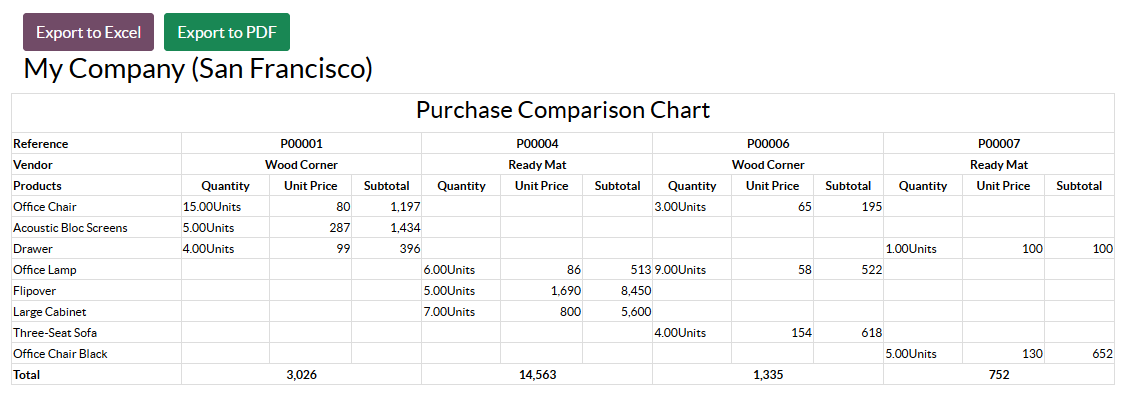
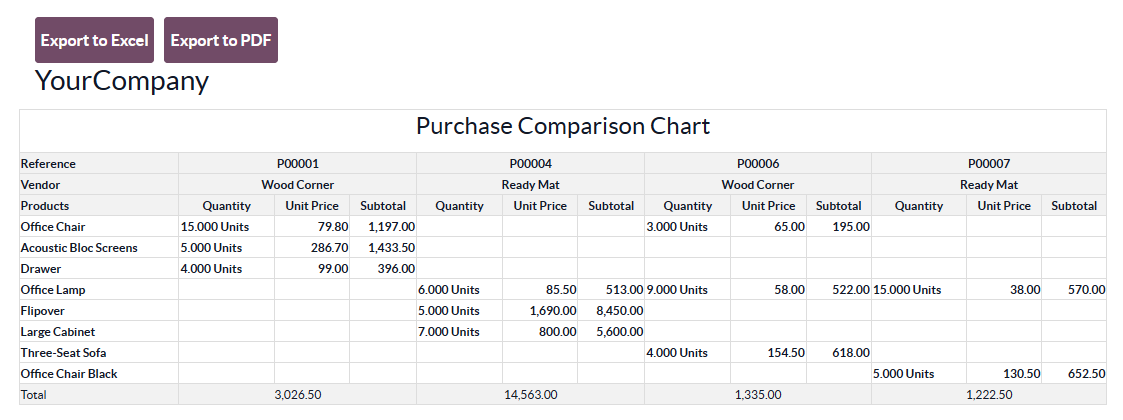
Add module to 18.0 branch

diff --git a/sb_rfq_comparison/static/description/index.html b/sb_rfq_comparison/static/description/index.html
@@ -1,34 +1,32 @@
 <section class="oe_container">
     <div class="oe_row oe_spaced">
         <h2 class="oe_slogan" style="color:#875A7B;">RFQ Comparison</h2>
-        <h3 class="oe_slogan">Purchase Comparison Chart of selected records.<br> Reference and Vendor against products</h3>
+        <h3 class="oe_slogan">Purchase Comparison Chart of selected records. Reference and Vendor against products</h3>
         <div class="oe_demo oe_picture oe_screenshot">
             <br>
-            <h5 style="text-align: center">Purchase Comparison Chart</h5>
-            <h6 style="text-align: center">Goto Request for Quotation menu in Purchase module.
+            <h3 style="text-align: center">Purchase Comparison Chart</h3>
+            <h5 style="text-align: center">Goto Request for Quotation menu in Purchase module.
                 Select records as required for comparison then in Action menu select RFQ Comparison.
-            </h6>
+            </h5>
             <img src="menu.png">
         </div>
-        <br><br><br>
         <div class="oe_demo oe_picture oe_screenshot">
             <br>
-            <h5 style="text-align: center">HTML view of Purchase Comparison Chart</h5>
-            <h6 style="text-align: center">A HTML view of Purchase Comparison Chart will open in new tab.</h6>
+            <h3 style="text-align: center">HTML view of Purchase Comparison Chart</h3>
+            <h5 style="text-align: center">A HTML view of Purchase Comparison Chart will open in new tab.</h5>
             <img src="report_html.png">
         </div>
         <br>
         <div class="oe_demo oe_picture oe_screenshot">
             <br>
-            <h5 style="text-align: center">PDF view of Purchase Comparison Chart</h5>
-            <h6 style="text-align: center">A PDF view of Purchase Comparison Chart will open on click Export to PDF button.</h6>
+            <h3 style="text-align: center">PDF view of Purchase Comparison Chart</h3>
+            <h5 style="text-align: center">A PDF view of Purchase Comparison Chart will open on click Export to PDF button.</h5>
             <img src="report_pdf.png">
         </div>
-        <br>
         <div class="oe_demo oe_picture oe_screenshot">
             <br>
-            <h5 style="text-align: center">Excel view of Purchase Comparison Chart</h5>
-            <h6 style="text-align: center">An excel view of Purchase Comparison Chart will open on click Export to Excel button.</h6>
+            <h3 style="text-align: center">Excel view of Purchase Comparison Chart</h3>
+            <h5 style="text-align: center">An excel view of Purchase Comparison Chart will open on click Export to Excel button.</h5>
             <img src="report_xlsx.png">
         </div>
     </div>

diff --git a/sb_rfq_comparison/controllers/rfq_comparison_controller.py b/sb_rfq_comparison/controllers/rfq_comparison_controller.py
@@ -18,7 +18,7 @@ class PurchaseComparison(http.Controller):
             rfq_ids.append(record.id)
 
             # Append FRQ
-            rfq_info.append({'rfq_name': record.name, 'amount': '{:,.0f}'.format(record.amount_untaxed)})
+            rfq_info.append({'rfq_name': record.name, 'amount': '{:,.2f}'.format(record.amount_untaxed)})
 
             # Append supplier
             supplier_ids.append({'sname': record.partner_id.name})
@@ -27,10 +27,10 @@ class PurchaseComparison(http.Controller):
             for line in record.order_line:
                 if line.product_id.id not in product:
                     product[line.product_id.id] = {'product_name': line.product_id.name,
-                                                    'records': {record.id: {'price': '{:,.0f}'.format(line.price_unit), 'uom': line.product_uom.name,'qty': '{:,.2f}'.format(line.product_qty), 'subtotal': '{:,.0f}'.format(line.product_qty*line.price_unit)}}}
+                                                    'records': {record.id: {'price': '{:,.2f}'.format(line.price_unit), 'uom': line.product_uom.name,'qty': '{:,.3f}'.format(line.product_qty), 'subtotal': '{:,.2f}'.format(line.product_qty*line.price_unit)}}}
                 else:
-                    product[line.product_id.id]['records'][record.id] = {'price': '{:,.0f}'.format(line.price_unit), 'uom': line.product_uom.name,
-                                                   'qty': '{:,.2f}'.format(line.product_qty), 'subtotal': '{:,.0f}'.format(line.product_qty*line.price_unit)}
+                    product[line.product_id.id]['records'][record.id] = {'price': '{:,.2f}'.format(line.price_unit), 'uom': line.product_uom.name,
+                                                   'qty': '{:,.3f}'.format(line.product_qty), 'subtotal': '{:,.2f}'.format(line.product_qty*line.price_unit)}
         for rec in product:
             product_data = product[rec]
             product_data['record'] = []
@@ -69,9 +69,11 @@ class PurchaseComparison(http.Controller):
             cell_align1 = workbook.add_format({'align': 'center', 'bold': True, 'font_size': '12', 'border': 1})
             cell_align2 = workbook.add_format({'bg_color': '#CCCCCC', 'align': 'center', 'bold': True, 'font_size': '12', 'border': 1})
             format_qty1 = workbook.add_format({'text_wrap': True, 'align': 'right', 'font_size': '10', 'border': 1, 'num_format': '#,##0.00'})
-            format_qty2 = workbook.add_format({'bg_color': '#CCCCCC', 'text_wrap': True, 'align': 'right', 'font_size': '10', 'border': 1, 'num_format': '#,##0.00'})
+            format_qty2 = workbook.add_format({'bg_color': '#CCCCCC', 'text_wrap': True, 'align': 'right',
+                                               'font_size': '10', 'border': 1, 'num_format': '#,##0.00'})
             format_amount1 = workbook.add_format({'align': 'center', 'bold': True, 'border': 1, 'num_format': '#,##0'})
-            format_amount2 = workbook.add_format({'bg_color': '#CCCCCC','align': 'center', 'bold': True, 'border': 1, 'num_format': '#,##0'})
+            format_amount2 = workbook.add_format({'bg_color': '#CCCCCC', 'align': 'center', 'bold': True, 'border': 1,
+                                                  'num_format': '#,##0.00;(#,##0.00)'})
 
             c = 1
             sheet.set_column(c, c, 35)
@@ -98,10 +100,10 @@ class PurchaseComparison(http.Controller):
 
             r += 1
             c = 1
-            sheet.write(r, c, 'Vendor', cell_format1)
+            sheet.write(r, c, 'Vendor', cell_format2)
             c += 1
             for sname in supplier_ids:
-                sheet.merge_range(r, c, r, c+2, sname['sname'], cell_align1)
+                sheet.merge_range(r, c, r, c+2, sname['sname'], cell_align2)
                 c += 3
 
             r += 1
@@ -119,24 +121,36 @@ class PurchaseComparison(http.Controller):
             r += 1
             c = 1
             for product in values:
-                sheet.write(r, c, product['product_name'], (txt2 if r % 2 == 0 else txt1))
+                sheet.write(r, c, product['product_name'], txt1)
                 c += 1
                 for rec in product['record']:
-                    sheet.write(r, c, rec['qty']+" "+rec['uom'], (txt2 if r % 2 == 0 else txt1))
+                    sheet.write(r, c, rec['qty']+" "+rec['uom'], txt1)
                     c += 1
-                    sheet.write(r, c, rec['price'], (format_qty2 if r % 2 == 0 else format_qty1))
-                    c += 1
-                    sheet.write(r, c, rec['subtotal'], (format_qty2 if r % 2 == 0 else format_qty1))
-                    c += 1
+                    price_str = rec['price']
+                    if price_str:
+                        price = float(price_str.replace(',', ''))
+                        sheet.write_number(r, c, price, format_qty1)
+                    else:
+                        sheet.write_blank(r, c, None, format_qty1)
 
+                    c += 1
+                    subtotal_str = rec['subtotal']
+                    if subtotal_str:
+                        subtotal = float(subtotal_str.replace(',', ''))
+                        sheet.write_number(r, c, subtotal, format_qty1)
+                    else:
+                        sheet.write_blank(r, c, None, format_qty1)
+
+                    c += 1
                 r += 1
                 c = 1
 
             c = 1
-            sheet.write(r, c, 'Total', (format_amount2 if r % 2 == 0 else format_amount1))
+            sheet.write(r, c, 'Total', format_amount2)
             c += 1
             for rfq in rfq_info:
-                sheet.merge_range(r, c, r, c + 2, rfq['amount'], (format_amount2 if r % 2 == 0 else format_amount1))
+                amount = float(rfq['amount'].replace(',', ''))
+                sheet.merge_range(r, c, r, c + 2, amount, format_amount2)
                 c += 3
 
             workbook.close()

diff --git a/sb_rfq_comparison/__manifest__.py b/sb_rfq_comparison/__manifest__.py
@@ -8,7 +8,7 @@
     'author': "Sybaz",
     'website': "https://sybaz.com/",
     'category': 'Purchase/Purchase',
-    'version': '17.0.1.0.1',
+    'version': '18.0.1.0.1',
     'depends': ['purchase'],
 
     'data': [

diff --git a/sb_rfq_comparison/README.md b/sb_rfq_comparison/README.md
@@ -1,7 +1,7 @@
-Purchase Comparison Chart
+Current Stock Report
 ---------------------------------------
 
-Purchase Comparison Chart showing Purchase Comparison Chart of selected records. Reference and Vendor against products.
+Current Stock Report showing opening and closing balances with received and issues quantity for each product in selected period.
 
 Configuration
 ---------------------------------
@@ -11,8 +11,7 @@ Just install it.
 Usage
 ----------------------------------
 
-Goto Request for Quotation menu in Purchase module.
-Select records as required for comparison then in Action menu select RFQ Comparison.
+Just see product quantity balances with opening, received, issue and closing.
 
 -----------------------------------
 
